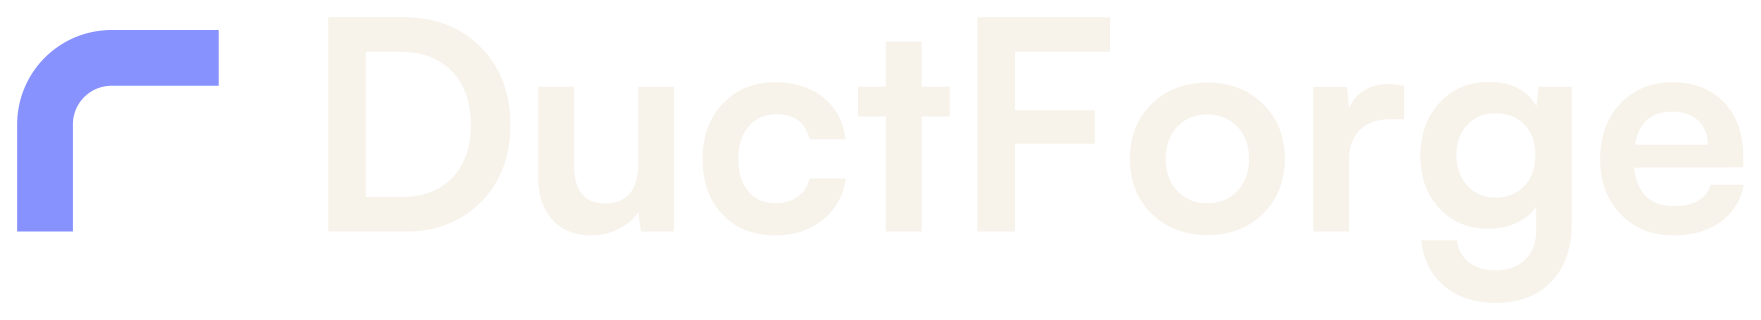
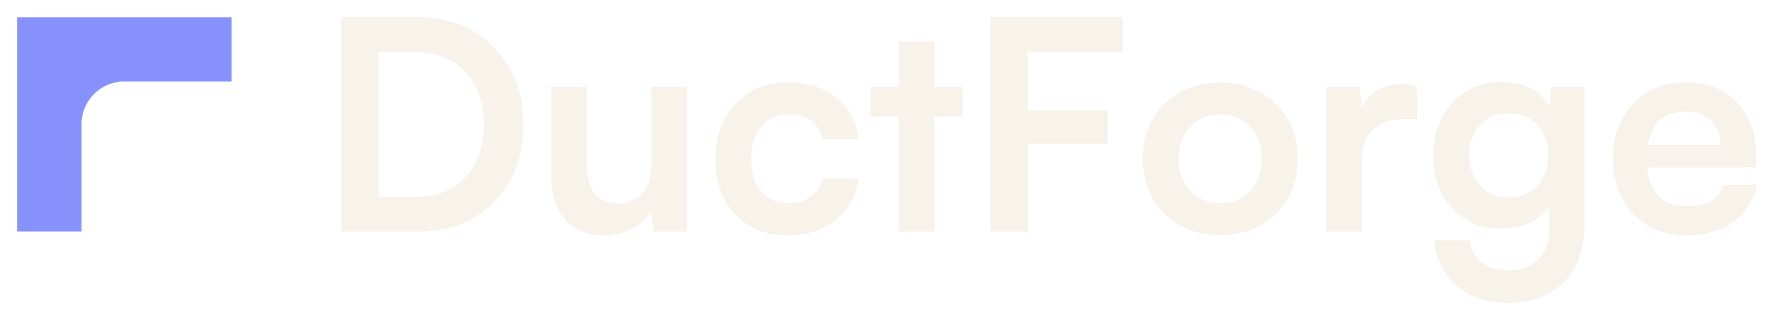
Replace the generic curve with a square-backed elbow
Fair call: the old mark was a really generic curve. A fully radiused bend
is a swoosh, a lowercase r, half a hundred other logos — nothing in it
said sheet metal.

Done the way it was asked for. Draw the candidates as SVG, rasterise them
and look at them at real sizes before choosing anything. Three rounds are
kept in scripts/mark-candidates.mjs with the reason each was dropped:
the radiused elbow (generic), the square-to-round (reads as a megaphone),
and the flanged variants (mush at 16px).

The one that stays: mitred heel, radiused throat. What separates duct
from pipe is that duct is rectangular, and a rectangular bend is mitred
on the outside while it sweeps on the inside — an asymmetry a round pipe
cannot produce. It cannot be mistaken for a swoosh, and it holds at
sixteen pixels, which is where the favicon lives. It also fills the box
corner to corner now; the old one occupied a diagonal band and looked
small beside its own wordmark.

Everything downstream is regenerated from the one path: the wordmark
(Satoshi outlined from the TTF, so no font file is needed at runtime),
the light and dark lockups, the icon, the maskable icon, the apple touch
icon and the favicon.

raster.mjs grows non-zero winding, so a composite mark stops cancelling
its own overlaps into holes, and H/V path commands, which it rejected.

Changed region(s): [[0.0, 0.0312, 0.1562, 0.2812], [0.0312, 0.2812, 0.0625, 0.7188], [0.0625, 0.25, 0.1249, 0.2812]]

diff --git a/lib/brand/logo.ts b/lib/brand/logo.ts
@@ -7,7 +7,7 @@
 
 /** The elbow mark, in a 100 × 100 box. */
 export const MARK_PATH =
-  "M6 100L6 50A44 44 0 0 1 50 6L100 6L100 32L50 32A18 18 0 0 0 32 50L32 100Z";
+  "M0 100L0 0L100 0L100 30L50 30A20 20 0 0 0 30 50L30 100Z";
 
 /** "DuctForge" outlined, sitting on a baseline at y = 0. */
 export const WORDMARK_PATH =
@@ -20,7 +20,7 @@ export const LOGO = {
   /** Where the wordmark's baseline sits, in the same coordinates. */
   baseline: 72,
   /** The viewBox that contains the whole lockup, descenders included. */
-  viewBox: "-1.44 -5.76 591.32 107.45",
-  width: 591.32,
+  viewBox: "-5.76 -5.76 595.64 107.45",
+  width: 595.64,
   height: 107.45,
 } as const;
